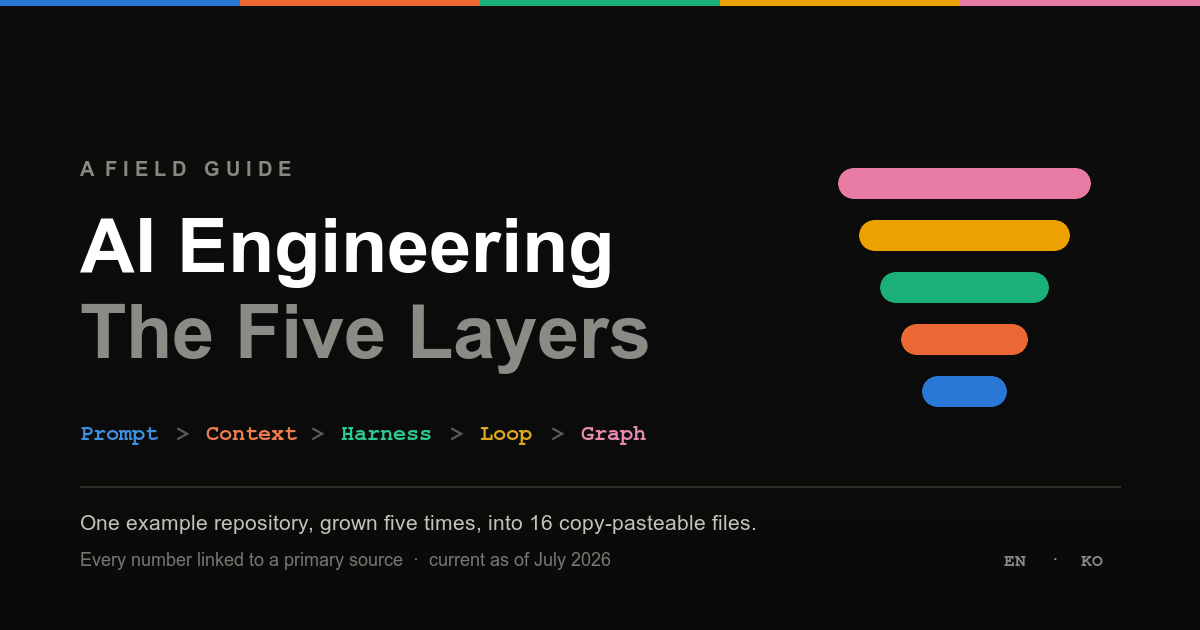
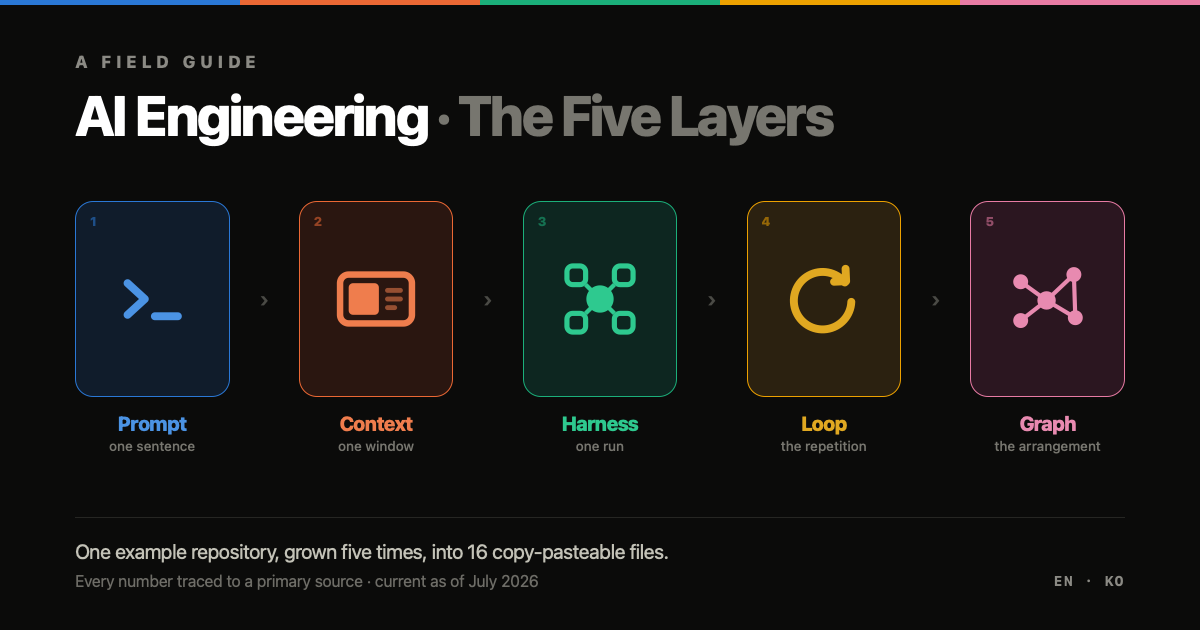
Redraw the social preview so the five layers are legible, not just named
The old image was five coloured bars in a funnel. It said 'there are
layers' and nothing else — you could read the words harness, loop and
graph without any sense of what they are.

Each layer now gets a glyph that is the concept:
  prompt  a terminal caret and cursor — what you type
  context a window with part of its budget spent
  harness a model core with four modules strapped around it
  loop    a closed circular arrow
  graph   an asymmetric node-link network

Tinted cards carry the colour at thumbnail size, where line art
disappears; the glyphs carry the meaning at full size. Checked at 420px,
roughly what KakaoTalk and Slack render.

The graph glyph went through two passes — a symmetric fan-out reads as a
diamond, not a graph. Asymmetry is what makes it read as a network.

Source kept at tools/og.html so it can be edited rather than redrawn.

diff --git a/tools/og.html b/tools/og.html
@@ -1,0 +1,133 @@
+<!-- Source for docs/assets/og.png (1200x630 social preview).
+     Render at exactly 1200x630 and export as PNG — e.g. open in a browser
+     sized to 1200x630 and screenshot, or any headless-browser snapshot. -->
+<!DOCTYPE html>
+<html><head><meta charset="utf-8"><style>
+  *{margin:0;padding:0;box-sizing:border-box}
+  html,body{width:1200px;height:630px;overflow:hidden}
+  body{background:#0b0b0a;color:#fff;
+    font-family:-apple-system,BlinkMacSystemFont,"Segoe UI",Helvetica,Arial,sans-serif;
+    position:relative}
+  .rule{position:absolute;inset:0 0 auto 0;height:5px;display:flex}
+  .rule i{flex:1}
+  .wrap{padding:52px 75px 0}
+  .eyebrow{font-size:17px;font-weight:800;letter-spacing:5px;color:#8b8a84}
+  h1{font-size:56px;font-weight:800;letter-spacing:-2.2px;line-height:1.06;margin-top:14px}
+  h1 em{font-style:normal;color:#77766f}
+
+  .row{display:flex;align-items:flex-start;gap:30px;margin-top:56px}
+  .cell{width:186px}
+  .card{height:196px;border-radius:18px;display:grid;place-items:center;
+    border:1.6px solid;position:relative}
+  .card svg{width:92px;height:92px}
+  .n{position:absolute;top:11px;left:14px;font-size:13px;font-weight:800;opacity:.55}
+  .name{margin-top:15px;font-size:20px;font-weight:800;letter-spacing:-.5px;text-align:center}
+  .unit{margin-top:3px;font-size:13.5px;font-weight:500;color:#77766f;text-align:center}
+  .arrow{align-self:center;margin-top:-58px;color:#4a4a45;font-size:22px;font-weight:700}
+
+  .foot{position:absolute;left:75px;right:75px;bottom:40px}
+  .foot hr{border:0;border-top:1px solid #26262300;border-top-color:#262623;margin-bottom:22px}
+  .f1{font-size:20px;color:#c3c2b7;letter-spacing:-.3px}
+  .f2{margin-top:9px;font-size:16px;color:#6e6d67;letter-spacing:-.2px;
+      display:flex;justify-content:space-between}
+  .f2 b{font-weight:700;color:#8b8a84;letter-spacing:1.5px;
+        font-family:ui-monospace,SFMono-Regular,Menlo,monospace;font-size:14px}
+</style></head><body>
+
+<div class="rule"><i style="background:#2a78d6"></i><i style="background:#eb6834"></i><i style="background:#1baf7a"></i><i style="background:#eda100"></i><i style="background:#e87ba4"></i></div>
+
+<div class="wrap">
+  <div class="eyebrow">A FIELD GUIDE</div>
+  <h1>AI Engineering <em>· The Five Layers</em></h1>
+
+  <div class="row">
+
+    <!-- 1 PROMPT — a terminal prompt: what you type -->
+    <div class="cell">
+      <div class="card" style="border-color:#2a78d6;background:#101c2b">
+        <span class="n" style="color:#2a78d6">1</span>
+        <svg viewBox="0 0 64 64" fill="none" stroke="#4b93e4" stroke-width="5.5"
+             stroke-linecap="round" stroke-linejoin="round">
+          <path d="M15 21 L27 32 L15 43"/><path d="M34 44 H50"/>
+        </svg>
+      </div>
+      <div class="name" style="color:#4b93e4">Prompt</div>
+      <div class="unit">one sentence</div>
+    </div>
+    <div class="arrow">›</div>
+
+    <!-- 2 CONTEXT — a window with a finite budget partly spent -->
+    <div class="cell">
+      <div class="card" style="border-color:#eb6834;background:#2a1610">
+        <span class="n" style="color:#eb6834">2</span>
+        <svg viewBox="0 0 64 64" fill="none" stroke="#ef7d4d" stroke-width="4.5">
+          <rect x="7" y="15" width="50" height="34" rx="6"/>
+          <rect x="13" y="21" width="21" height="22" rx="3" fill="#ef7d4d" stroke="none"/>
+          <path d="M40 26 h9 M40 32 h9 M40 38 h5" stroke-width="3.4" stroke-linecap="round" opacity=".55"/>
+        </svg>
+      </div>
+      <div class="name" style="color:#ef7d4d">Context</div>
+      <div class="unit">one window</div>
+    </div>
+    <div class="arrow">›</div>
+
+    <!-- 3 HARNESS — everything strapped around the model -->
+    <div class="cell">
+      <div class="card" style="border-color:#1baf7a;background:#0d2620">
+        <span class="n" style="color:#1baf7a">3</span>
+        <svg viewBox="0 0 64 64" fill="none" stroke="#2ec98f" stroke-width="3.6">
+          <path d="M22 22 L28 28 M42 22 L36 28 M22 42 L28 36 M42 42 L36 36" stroke-width="3"/>
+          <circle cx="32" cy="32" r="9.5" fill="#2ec98f" stroke="none"/>
+          <rect x="9"  y="9"  width="13" height="13" rx="4"/>
+          <rect x="42" y="9"  width="13" height="13" rx="4"/>
+          <rect x="9"  y="42" width="13" height="13" rx="4"/>
+          <rect x="42" y="42" width="13" height="13" rx="4"/>
+        </svg>
+      </div>
+      <div class="name" style="color:#2ec98f">Harness</div>
+      <div class="unit">one run</div>
+    </div>
+    <div class="arrow">›</div>
+
+    <!-- 4 LOOP — it comes back round on its own -->
+    <div class="cell">
+      <div class="card" style="border-color:#eda100;background:#2b2110">
+        <span class="n" style="color:#eda100">4</span>
+        <svg viewBox="0 0 64 64" fill="none" stroke="#e0a821" stroke-width="5.5"
+             stroke-linecap="round" stroke-linejoin="round">
+          <path d="M46.5 20.5 A20 20 0 1 0 51 34"/>
+          <path d="M39 20 L47.4 19.6 L47 11"/>
+        </svg>
+      </div>
+      <div class="name" style="color:#e0a821">Loop</div>
+      <div class="unit">the repetition</div>
+    </div>
+    <div class="arrow">›</div>
+
+    <!-- 5 GRAPH — fan out, verify, merge -->
+    <div class="cell">
+      <div class="card" style="border-color:#e87ba4;background:#2b1620">
+        <span class="n" style="color:#e87ba4">5</span>
+        <svg viewBox="0 0 64 64" fill="none" stroke="#e88ab0" stroke-width="2.9">
+          <path d="M13 20 L31 33 M13 47 L31 33 M31 33 L50 15 M31 33 L51 45 M50 15 L51 45"/>
+          <circle cx="13" cy="20" r="5.2" fill="#e88ab0" stroke="none"/>
+          <circle cx="13" cy="47" r="5.2" fill="#e88ab0" stroke="none"/>
+          <circle cx="31" cy="33" r="6.4" fill="#e88ab0" stroke="none"/>
+          <circle cx="50" cy="15" r="5.2" fill="#e88ab0" stroke="none"/>
+          <circle cx="51" cy="45" r="5.2" fill="#e88ab0" stroke="none"/>
+        </svg>
+      </div>
+      <div class="name" style="color:#e88ab0">Graph</div>
+      <div class="unit">the arrangement</div>
+    </div>
+
+  </div>
+</div>
+
+<div class="foot">
+  <hr>
+  <div class="f1">One example repository, grown five times, into 16 copy-pasteable files.</div>
+  <div class="f2"><span>Every number traced to a primary source · current as of July 2026</span><b>EN · KO</b></div>
+</div>
+
+</body></html>

diff --git a/README.md b/README.md
@@ -140,7 +140,7 @@ docs/                         ← GitHub Pages root
     ├── styles.css            ← one stylesheet, shared by both editions
     ├── app.js                ← one script; all UI strings live in an i18n table
     ├── favicon.svg
-    ├── og.png                ← social preview
+    ├── og.png                ← social preview (source: tools/og.html)
     └── img/*.svg             ← diagrams extracted for this README (light + dark)
 ```
 
